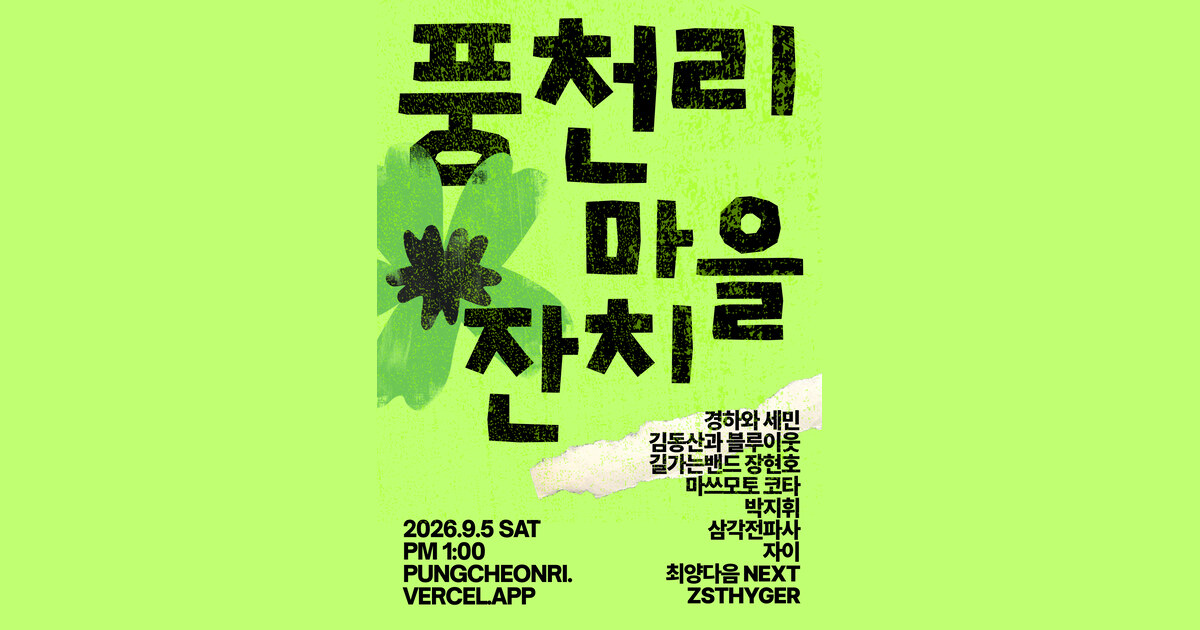
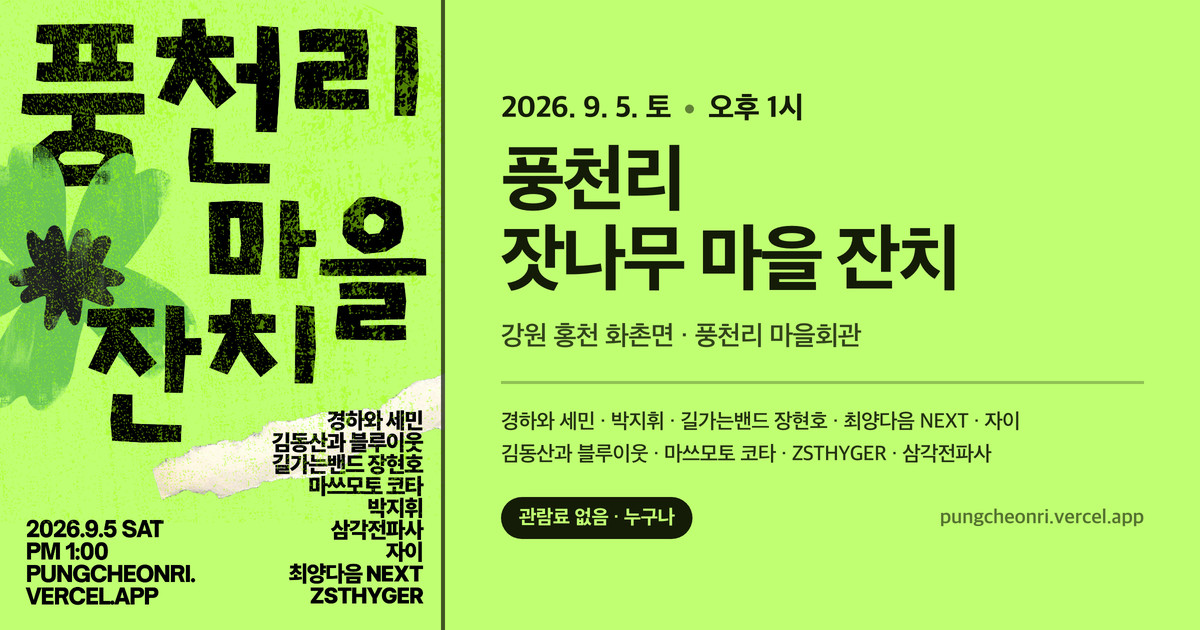
마을잔치 OG 썸네일을 가로 카드로 교체 + twitter:card 명시
기존 OG 는 세로 포스터를 1200×630 상자에 그대로 눌러 담은 것이라
양옆에 초록 여백만 넓고 제목·라인업이 읽히지 않았다. 왼쪽에 포스터
전체를 세워 넣고 오른쪽에 날짜·장소·9팀·무료 여부를 큰 글씨로 짠
가로 카드로 다시 만들었다.

twitter:card 이 없어 X 에서는 작은 정사각으로 잘려 붙던 것도
summary_large_image 로 명시했다. MusicEvent 구조화 데이터의 image
에도 1.91:1 카드를 먼저 넣어 리치결과가 가로 이미지를 고르게 했다.

diff --git a/website/src/app/concert/village-feast/page.tsx b/website/src/app/concert/village-feast/page.tsx
@@ -46,7 +46,10 @@ const eventJsonLd = {
   eventStatus: "https://schema.org/EventScheduled",
   eventAttendanceMode: "https://schema.org/OfflineEventAttendanceMode",
   url: FEAST_URL,
-  image: [`${SITE_URL}/images/concert/village-feast-poster.jpg`],
+  image: [
+    `${SITE_URL}/images/concert/village-feast-og.jpg`,
+    `${SITE_URL}/images/concert/village-feast-poster.jpg`,
+  ],
   description: `${FEAST_DATE_LABEL} ${FEAST_TIME_LABEL}, ${FEAST_PLACE}에서 열리는 마을 잔치. 홍천 양수발전소 건설에 8년째 반대해온 풍천리에서 음악가 ${FEAST_LINEUP.length}팀이 함께합니다. 관람료는 없습니다.`,
   isAccessibleForFree: true,
   inLanguage: "ko",
@@ -111,9 +114,17 @@ export const metadata: Metadata = {
         url: `${SITE_URL}/images/concert/village-feast-og.jpg`,
         width: 1200,
         height: 630,
-        alt: `${FEAST_TITLE} 포스터`,
+        alt: `${FEAST_TITLE} — ${FEAST_DATE_LABEL} ${FEAST_PLACE}`,
       },
     ],
+  },
+  // twitter:card 이 없으면 X 는 og:image 를 작은 정사각 썸네일로 줄여 붙인다.
+  // 1.91:1 카드를 만들어둔 이상 큰 가로 카드로 뜨게 명시한다.
+  twitter: {
+    card: "summary_large_image",
+    title: `${FEAST_TITLE} — 9·5 홍천 마을회관`,
+    description: `${FEAST_DATE_LABEL} ${FEAST_TIME_LABEL}, ${FEAST_PLACE}. 음악가 ${FEAST_LINEUP.length}팀이 마을로 내려옵니다.`,
+    images: [`${SITE_URL}/images/concert/village-feast-og.jpg`],
   },
 };
 
